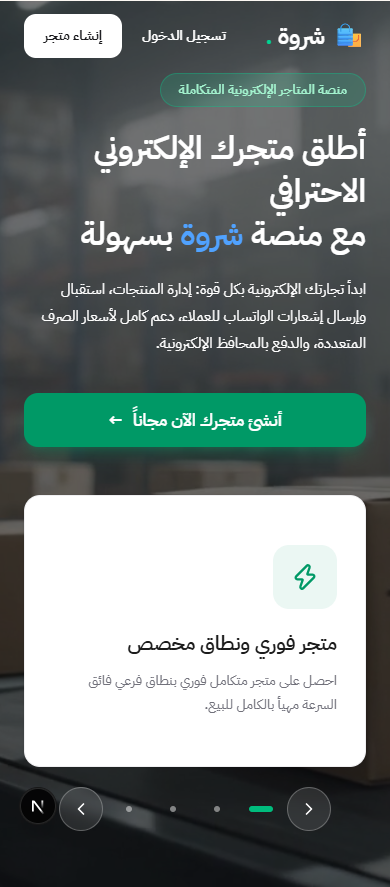
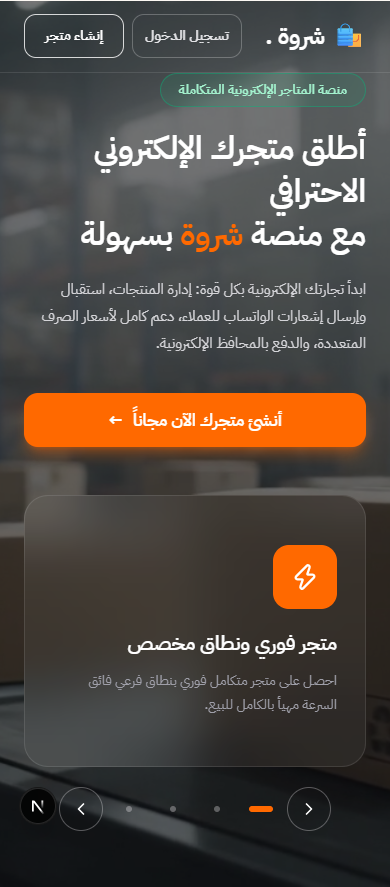
style(landing): match the reference mockup — orange accent, glass card
Owner direction 2026-10-17, from an attached design. Tailwind classes only;
no component structure changed and nothing added.

The accent moves from emerald/blue to orange-500, on the three things that
carried it: the brand word in the headline, the primary action (with an
orange/40 glow), the card's icon tile, and the active pagination dot.

- Headline stays white; subtitle drops to zinc-300, which is how it reads in
  the reference against the white headline.
- Carousel card is glass over the footage instead of an opaque white sheet:
  white/5 on a white/10 hairline, blur(24px), 24px corners. Title to white,
  body to zinc-400, and the icon tile to solid orange with a white glyph.
- Arrows lose their fill for a white/30 hairline ring.
- Header actions are both outlined pills over the video — the sign-in link
  gains a white/25 border, and "إنشاء متجر" goes from a solid white pill to a
  white/80 outline. The bar keeps a white/10 hairline at the top of the page
  rather than no border, and the wordmark's full stop reads white over the
  footage.

The video is untouched, per the owner's constraint: `git diff` against
rp/08-hero-fixes-after reports hero-video.tsx byte-identical, and no line
mentioning HeroVideo, the scrim, the z-layers or object-cover changed in
hero.tsx. The scrim stayed at zinc-950/55 for the same reason, even though the
reference reads darker — its footage is a dark interior, ours is a bright
[…]

diff --git a/src/features/landing/components/feature-carousel.tsx b/src/features/landing/components/feature-carousel.tsx
@@ -76,7 +76,7 @@ export function FeatureCarousel() {
   const offset = reduced ? 0 : 48 * direction;
 
   const arrowClass =
-    "flex size-11 items-center justify-center rounded-full border border-white/25 bg-white/10 text-white backdrop-blur-sm transition-colors hover:bg-white/20";
+    "flex size-11 items-center justify-center rounded-full border border-white/30 bg-transparent text-white transition-colors hover:bg-white/10";
 
   return (
     <LazyMotion features={domAnimation} strict>
@@ -93,15 +93,15 @@ export function FeatureCarousel() {
               animate={{ opacity: 1, x: 0 }}
               exit={{ opacity: 0, x: offset }}
               transition={{ duration: reduced ? 0.25 : 0.4, ease: [0.16, 1, 0.3, 1] }}
-              className="absolute inset-0 flex flex-col justify-center rounded-2xl border border-zinc-200/60 bg-white p-7 shadow-sm sm:p-9"
+              className="absolute inset-0 flex flex-col justify-center rounded-[1.5rem] border border-white/10 bg-white/5 p-7 backdrop-blur-xl sm:p-9"
             >
-              <span className="mb-5 flex size-16 items-center justify-center rounded-2xl bg-emerald-600/8">
-                <Icon className="size-7 text-emerald-600" aria-hidden />
+              <span className="mb-5 flex size-16 items-center justify-center rounded-2xl bg-orange-500">
+                <Icon className="size-7 text-white" aria-hidden />
               </span>
-              <h2 className="sharwa-ink text-xl font-extrabold sm:text-[1.4rem]">
+              <h2 className="text-xl font-extrabold text-white sm:text-[1.4rem]">
                 {feature.title}
               </h2>
-              <p className="mt-3 text-sm leading-[1.75] text-zinc-500 sm:text-base">
+              <p className="mt-3 text-sm leading-[1.75] text-zinc-400 sm:text-base">
                 {feature.body}
               </p>
             </m.article>
@@ -143,8 +143,8 @@ export function FeatureCarousel() {
                   aria-hidden
                   className={
                     i === index
-                      ? "block h-1.5 w-6 rounded-full bg-emerald-500 transition-all duration-200"
-                      : "block size-1.5 rounded-full bg-white/45 transition-all duration-200"
+                      ? "block h-1.5 w-6 rounded-full bg-orange-500 transition-all duration-200"
+                      : "block size-1.5 rounded-full bg-white/30 transition-all duration-200"
                   }
                 />
               </button>

diff --git a/src/features/landing/components/site-header.tsx b/src/features/landing/components/site-header.tsx
@@ -44,7 +44,7 @@ export function SiteHeader() {
           "sticky top-0 z-50 w-full border-b transition-colors duration-300 ease-[cubic-bezier(0.16,1,0.3,1)]",
           pinned
             ? "sharwa-navbar border-zinc-200/60 shadow-sm backdrop-blur-md"
-            : "border-transparent bg-transparent",
+            : "border-white/10 bg-transparent",
         )}
       >
         <div className="mx-auto flex w-full max-w-7xl items-center justify-between gap-4 px-6 py-3.5 sm:px-8">
@@ -56,7 +56,7 @@ export function SiteHeader() {
               pinned ? "text-zinc-900" : "text-white",
             )}
           >
-            <Logo dotClassName={pinned ? "text-emerald-600" : "text-emerald-400"} />
+            <Logo dotClassName={pinned ? "text-emerald-600" : "text-white"} />
           </Link>
 
           <nav aria-label="إجراءات الحساب" className="flex items-center gap-2 sm:gap-2.5">
@@ -64,7 +64,9 @@ export function SiteHeader() {
               href="/login"
               className={cn(
                 "flex min-h-11 items-center rounded-xl px-3 text-sm font-bold transition-colors duration-300 sm:px-4",
-                pinned ? "text-zinc-600 hover:text-zinc-900" : "text-white hover:text-emerald-200",
+                pinned
+                  ? "text-zinc-600 hover:text-zinc-900"
+                  : "border border-white/25 text-zinc-200 hover:border-white/40 hover:text-white",
               )}
             >
               {nav.login}
@@ -75,9 +77,9 @@ export function SiteHeader() {
                 "flex min-h-11 items-center rounded-xl px-5 text-sm font-bold transition-colors duration-300 sm:px-[22px]",
                 pinned
                   ? "bg-zinc-900 text-white hover:bg-zinc-700"
-                  : // A dark pill disappears into dark footage, so over the
-                    // video the action inverts to white on ink.
-                    "bg-white text-zinc-900 hover:bg-emerald-50",
+                  : // Over the footage it is an outlined pill, brighter than
+                    // the sign-in link beside it.
+                    "border border-white/80 bg-transparent text-white hover:bg-white/10",
               )}
             >
               {nav.createStore}

diff --git a/src/features/landing/components/hero.tsx b/src/features/landing/components/hero.tsx
@@ -47,7 +47,7 @@ export function Hero() {
       <div className="relative z-10 mx-auto w-full max-w-7xl px-6 sm:px-8">
         <div className="grid items-center gap-12 lg:grid-cols-2 lg:gap-14 xl:gap-20">
           <div className="flex flex-col items-start text-start">
-            <span className="inline-flex items-center rounded-full border border-emerald-400/30 bg-emerald-400/15 px-[18px] py-1.5 text-[13px] font-extrabold text-emerald-200 backdrop-blur-sm">
+            <span className="inline-flex items-center rounded-full border border-emerald-500/40 bg-emerald-500/10 px-[18px] py-1.5 text-[13px] font-extrabold text-emerald-200 backdrop-blur-sm">
               {hero.badge}
             </span>
 
@@ -55,17 +55,17 @@ export function Hero() {
               {hero.titleLine1}
               <br />
               {hero.titleLine2Before}
-              <span className="text-blue-400">{hero.titleAccent}</span>
+              <span className="text-orange-500">{hero.titleAccent}</span>
               {hero.titleLine2After}
             </h1>
 
-            <p className="mt-5 max-w-xl text-[15px] leading-[1.8] text-white sm:text-[17px]">
+            <p className="mt-5 max-w-xl text-[15px] leading-[1.8] text-zinc-300 sm:text-[17px]">
               {hero.subtitle}
             </p>
 
             <Link
               href="/register"
-              className="mt-9 inline-flex min-h-[3.4rem] w-full items-center justify-center gap-2.5 rounded-[14px] bg-emerald-600 px-9 text-[17px] font-extrabold text-white shadow-lg shadow-emerald-600/30 transition-all hover:bg-emerald-500 hover:shadow-xl hover:shadow-emerald-500/40 sm:w-auto"
+              className="mt-9 inline-flex min-h-[3.4rem] w-full items-center justify-center gap-2.5 rounded-[14px] bg-orange-500 px-9 text-[17px] font-extrabold text-white shadow-lg shadow-orange-500/40 transition-all hover:bg-orange-600 hover:shadow-xl hover:shadow-orange-500/50 sm:w-auto"
             >
               <span>{hero.cta}</span>
               {/* The template's own arrow. It points along the reading direction,
